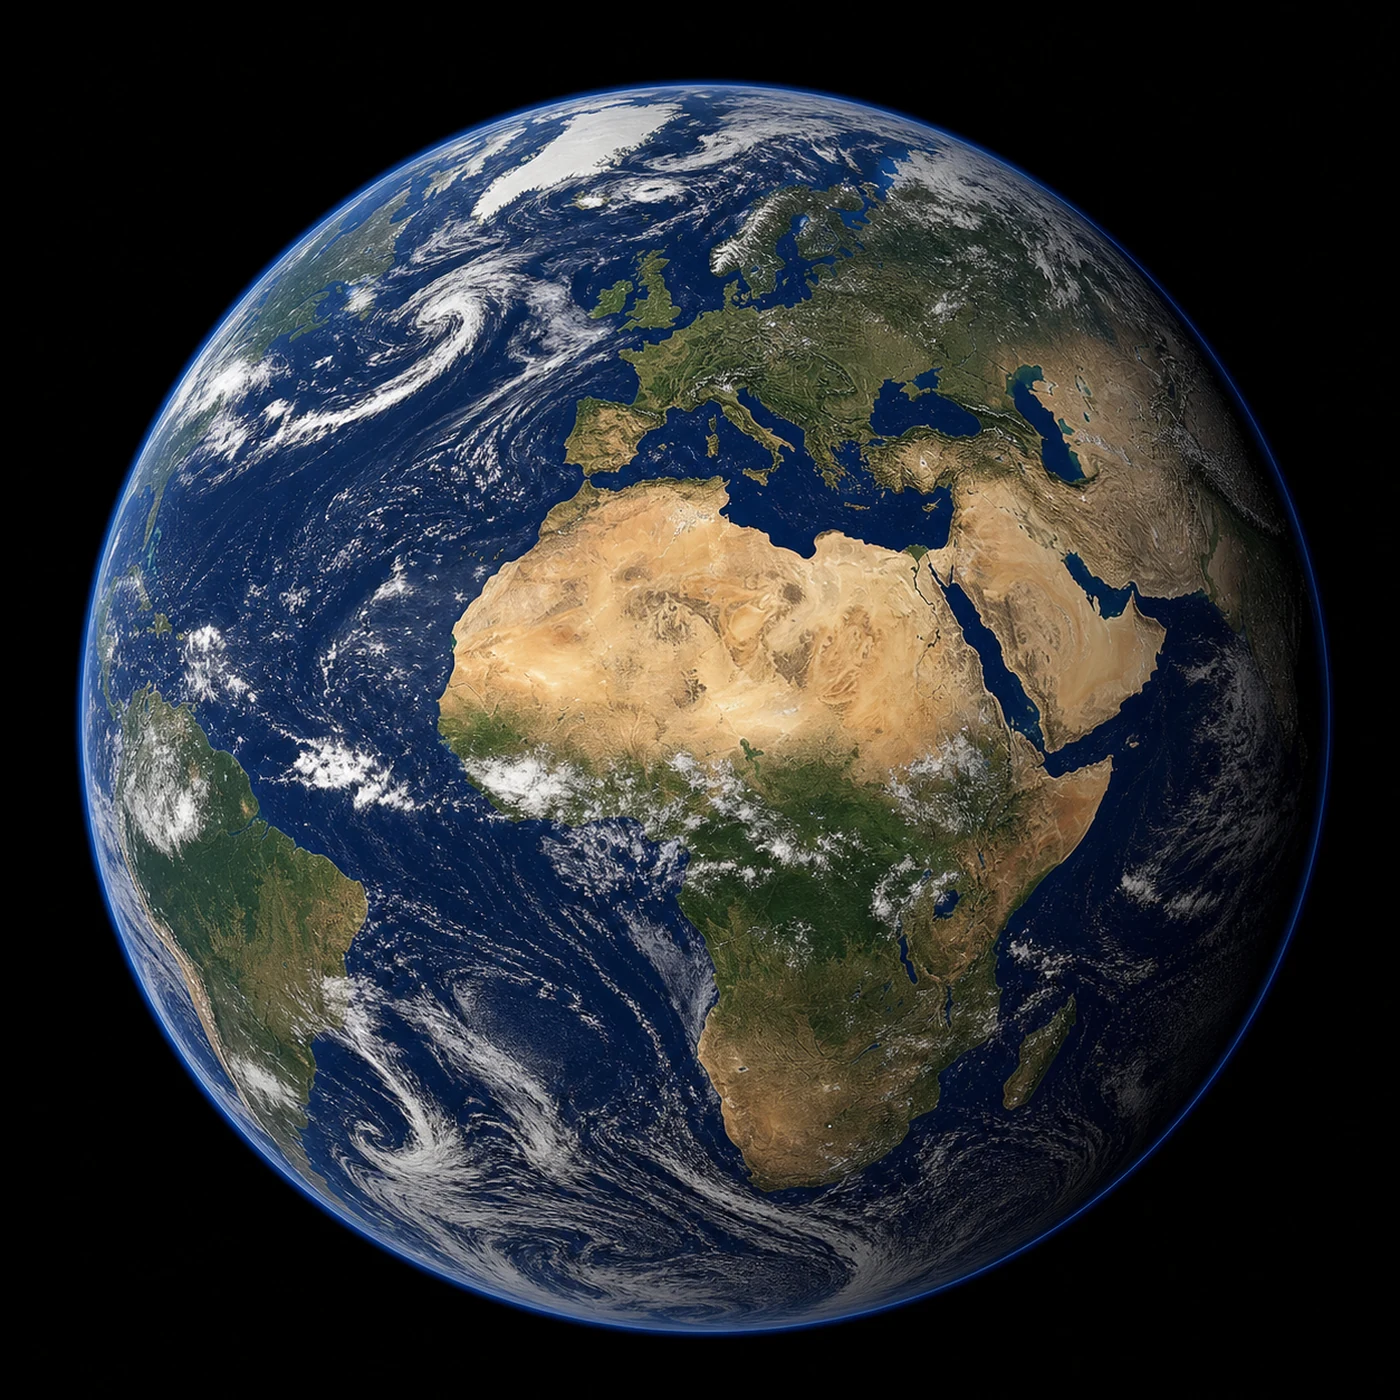
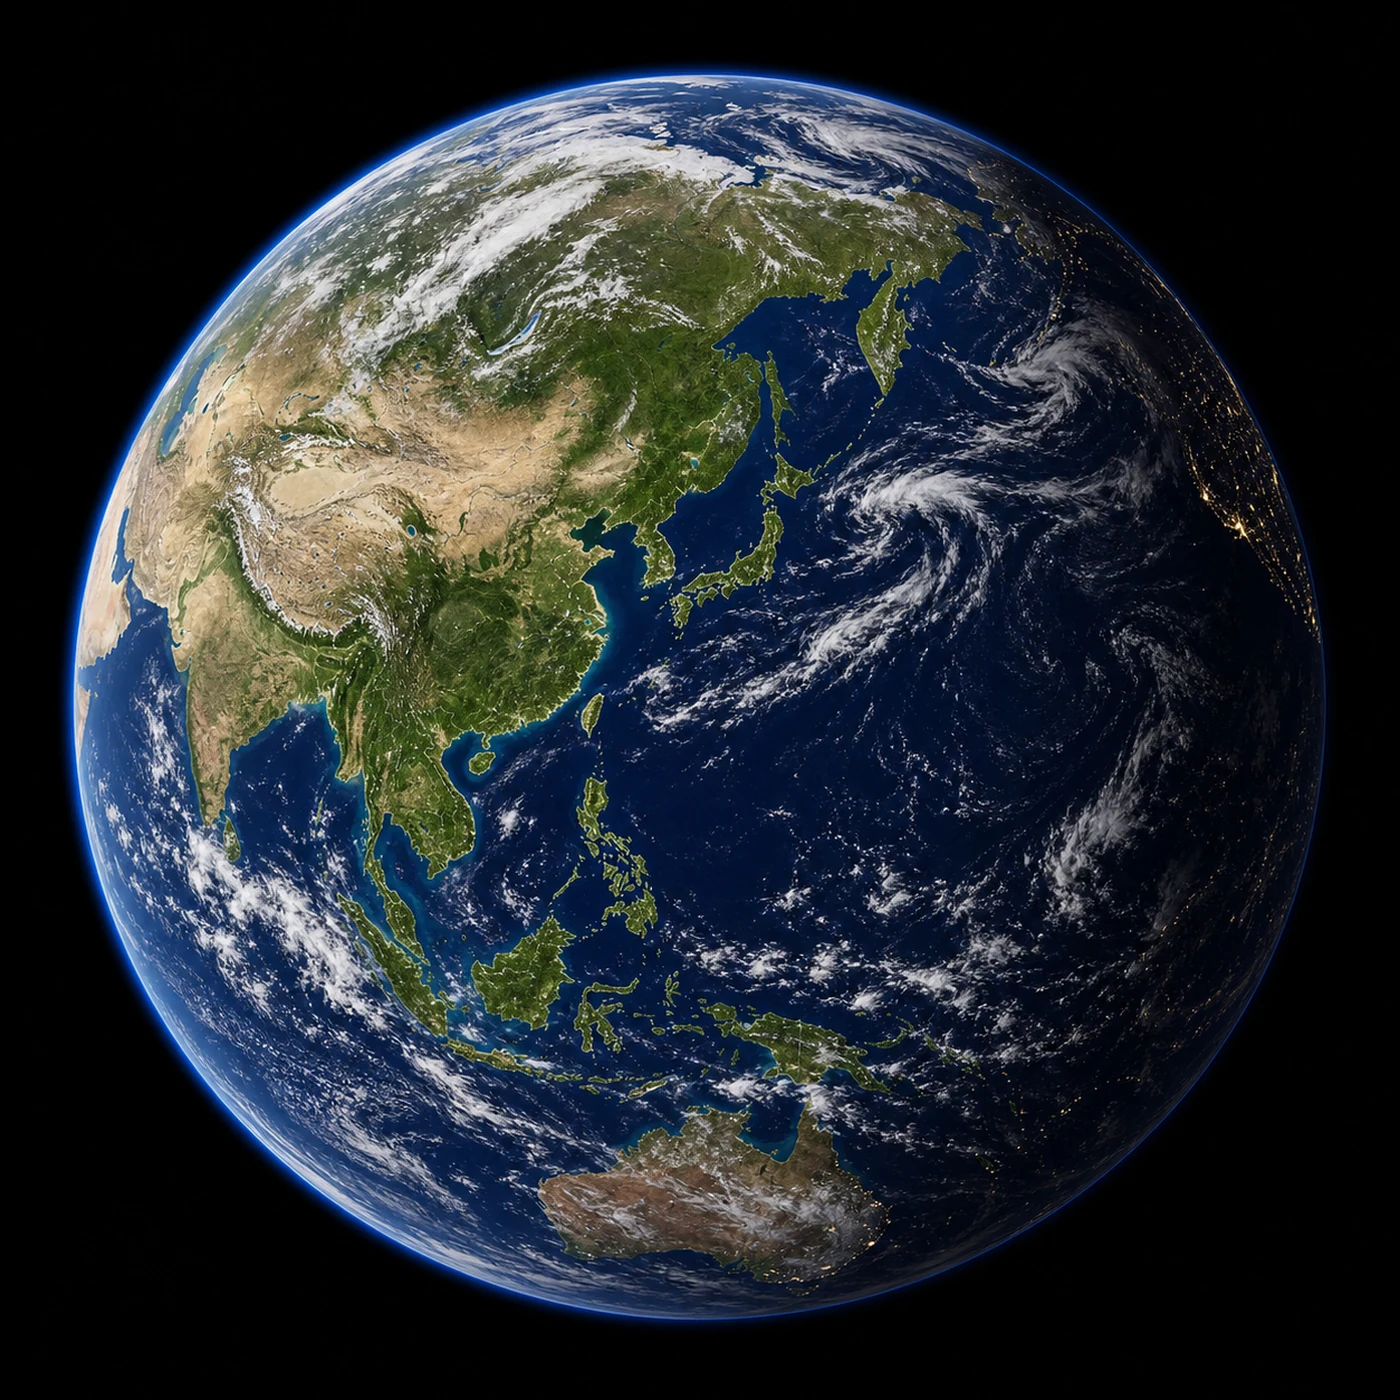
fix: render rotating login earth before app

diff --git a/login_visual.py b/login_visual.py
@@ -1,0 +1,239 @@
+"""로그인 성공 직후 본문 위에 먼저 렌더링되는 CSS 전환 오버레이."""
+
+
+def render_login_transition(st, earth_markup):
+    """Render the one-shot transition before the authenticated app body streams in."""
+    st.markdown(
+        """
+        <style>
+        .jarvis-login-transition-early {
+            position: fixed !important;
+            inset: 0;
+            z-index: 2147483647 !important;
+            display: block;
+            overflow: hidden;
+            pointer-events: none;
+            isolation: isolate;
+            opacity: 1;
+            visibility: visible;
+            background: radial-gradient(circle at center, #071b3a 0, #020713 46%, #000207 100%);
+            animation: jarvis-early-overlay 2s linear forwards;
+            animation-fill-mode: forwards;
+        }
+        .jarvis-early-earth {
+            position: absolute;
+            z-index: 2;
+            left: 50%;
+            top: 50%;
+            width: min(58vw, 620px);
+            transform: translate(-92%, -50%) scale(.82);
+            animation: jarvis-early-earth-zoom 2s cubic-bezier(.58, 0, .88, .72) forwards;
+            animation-fill-mode: forwards;
+            will-change: transform;
+        }
+        .jarvis-early-earth .jarvis-earth-visual {
+            position: relative;
+            width: 100%;
+            aspect-ratio: 1;
+            isolation: isolate;
+        }
+        .jarvis-early-earth .jarvis-earth-disc {
+            position: absolute;
+            inset: 7.5%;
+            z-index: 2;
+            overflow: hidden;
+            border-radius: 50%;
+            background: #01040a;
+            box-shadow: 0 0 0 2px rgba(75, 181, 255, .84), 0 0 24px rgba(35, 139, 255, .34);
+        }
+        .jarvis-early-earth .jarvis-earth-image {
+            position: absolute;
+            inset: -8%;
+            display: block;
+            width: 116%;
+            max-width: none;
+            height: 116%;
+            object-fit: cover;
+            opacity: 1;
+            transform: scale(1.08) rotate(0deg);
+            animation: jarvis-early-earth-turn 120s linear infinite;
+            animation-fill-mode: both;
+            will-change: transform;
+        }
+        .jarvis-early-earth .jarvis-orbit {
+            position: absolute;
+            z-index: 1;
+            left: -2%;
+            top: 35%;
+            width: 104%;
+            height: 29%;
+            border: 2px solid rgba(58, 155, 255, .72);
+            border-radius: 50%;
+            transform: rotate(-13deg);
+            animation: jarvis-early-ring 2s ease-out forwards;
+            animation-fill-mode: forwards;
+        }
+        .jarvis-early-earth .jarvis-orbit-secondary {
+            top: 37%;
+            height: 25%;
+            border-width: 1px;
+            transform: rotate(58deg);
+            animation-name: jarvis-early-ring-soft;
+        }
+        .jarvis-early-panel {
+            position: absolute;
+            z-index: 4;
+            right: clamp(2rem, 8vw, 9rem);
+            top: 50%;
+            width: min(34vw, 460px);
+            padding: 2rem;
+            transform: translateY(-50%);
+            border: 1px solid rgba(85, 151, 236, .32);
+            border-radius: 22px;
+            color: #dcecff;
+            background: linear-gradient(145deg, rgba(15, 31, 56, .82), rgba(3, 10, 24, .92));
+            box-shadow: 0 24px 70px rgba(0, 0, 0, .45), inset 0 1px rgba(179, 220, 255, .1);
+            animation: jarvis-early-panel-fade 2s ease-out forwards;
+            animation-fill-mode: forwards;
+        }
+        .jarvis-early-panel-kicker {
+            color: #64b7ff;
+            font: 700 .7rem/1.4 ui-monospace, SFMono-Regular, Consolas, monospace;
+            letter-spacing: .2em;
+        }
+        .jarvis-early-panel-title { margin-top: .8rem; font-size: 1.8rem; font-weight: 800; }
+        .jarvis-early-panel-line {
+            height: 46px;
+            margin-top: 1.4rem;
+            border: 1px solid rgba(92, 157, 234, .28);
+            border-radius: 11px;
+            background: rgba(2, 9, 22, .66);
+        }
+        .jarvis-early-status {
+            position: absolute;
+            z-index: 6;
+            top: 50%;
+            left: 50%;
+            width: min(92vw, 680px);
+            transform: translate(-50%, -50%);
+            color: #eaf6ff;
+            text-align: center;
+            text-shadow: 0 0 12px #00152f, 0 0 24px rgba(74, 174, 255, .95);
+            opacity: 0;
+            animation: jarvis-early-status-show 2s linear forwards;
+            animation-fill-mode: forwards;
+        }
+        .jarvis-early-access {
+            font: 800 clamp(1.15rem, 3vw, 1.85rem)/1.2 ui-monospace, SFMono-Regular, Consolas, monospace;
+            letter-spacing: .2em;
+        }
+        .jarvis-early-online {
+            margin-top: .38rem;
+            color: #69bfff;
+            font: 700 clamp(.78rem, 2vw, 1rem)/1.35 ui-monospace, SFMono-Regular, Consolas, monospace;
+            letter-spacing: .24em;
+        }
+        .jarvis-early-complete {
+            margin-top: .28rem;
+            color: #b9cce0;
+            font-size: clamp(.72rem, 1.8vw, .9rem);
+            letter-spacing: .12em;
+        }
+        .jarvis-early-light {
+            position: absolute;
+            z-index: 3;
+            left: 50%;
+            top: 50%;
+            width: 9vmin;
+            aspect-ratio: 1;
+            border: 2px solid rgba(82, 176, 255, .92);
+            border-radius: 50%;
+            opacity: 0;
+            transform: translate(-50%, -50%) scale(.1);
+            box-shadow: 0 0 34px rgba(36, 137, 255, .9), inset 0 0 30px rgba(31, 129, 255, .62);
+            animation: jarvis-early-light-expand 2s ease-in forwards;
+            animation-fill-mode: forwards;
+        }
+        @keyframes jarvis-early-earth-turn {
+            from { transform: scale(1.08) rotate(0deg); }
+            to { transform: scale(1.08) rotate(360deg); }
+        }
+        @keyframes jarvis-early-ring {
+            0% { opacity: .45; box-shadow: 0 0 2px rgba(73, 178, 255, .1); }
+            8%, 20% { opacity: 1; border-color: #79ceff; box-shadow: 0 0 15px #2598ff; }
+            50%, 100% { opacity: .34; box-shadow: 0 0 6px rgba(37, 152, 255, .25); }
+        }
+        @keyframes jarvis-early-ring-soft {
+            0% { opacity: .2; }
+            8%, 20% { opacity: .9; border-color: #8ad7ff; box-shadow: 0 0 12px #278fff; }
+            50%, 100% { opacity: .18; }
+        }
+        @keyframes jarvis-early-panel-fade {
+            0% { opacity: 1; transform: translateY(-50%) scale(1); }
+            20%, 100% { opacity: 0; transform: translateY(-50%) scale(.98); }
+        }
+        @keyframes jarvis-early-status-show {
+            0%, 19.99% { opacity: 0; transform: translate(-50%, calc(-50% + 6px)); }
+            20%, 50% { opacity: 1; transform: translate(-50%, -50%); }
+            50.01%, 100% { opacity: 0; transform: translate(-50%, calc(-50% - 5px)); }
+        }
+        @keyframes jarvis-early-earth-zoom {
+            0% { transform: translate(-92%, -50%) scale(.82); }
+            20% { transform: translate(-50%, -50%) scale(.78); }
+            50% { transform: translate(-50%, -50%) scale(.84); }
+            100% { transform: translate(-50%, -50%) scale(5.8); }
+        }
+        @keyframes jarvis-early-light-expand {
+            0%, 49.9% { opacity: 0; transform: translate(-50%, -50%) scale(.1); }
+            56% { opacity: .88; }
+            100% { opacity: 0; transform: translate(-50%, -50%) scale(24); }
+        }
+        @keyframes jarvis-early-overlay {
+            0%, 84% { opacity: 1; visibility: visible; }
+            99.9% { opacity: 0; visibility: visible; }
+            100% { opacity: 0; visibility: hidden; }
+        }
+        @keyframes jarvis-early-reduced {
+            0% { opacity: 1; visibility: visible; }
+            100% { opacity: 0; visibility: hidden; }
+        }
+        @media (max-width: 768px) {
+            .jarvis-early-earth { width: min(92vw, 500px); transform: translate(-50%, -66%) scale(.72); }
+            .jarvis-early-panel { right: 50%; top: auto; bottom: 7%; width: min(84vw, 520px); padding: 1.2rem; transform: translateX(50%); }
+            .jarvis-early-panel-line { height: 38px; margin-top: .8rem; }
+            @keyframes jarvis-early-panel-fade {
+                0% { opacity: 1; transform: translateX(50%) scale(1); }
+                20%, 100% { opacity: 0; transform: translateX(50%) scale(.98); }
+            }
+            @keyframes jarvis-early-earth-zoom {
+                0% { transform: translate(-50%, -66%) scale(.72); }
+                20% { transform: translate(-50%, -50%) scale(.7); }
+                50% { transform: translate(-50%, -50%) scale(.76); }
+                100% { transform: translate(-50%, -50%) scale(5.8); }
+            }
+        }
+        @media (prefers-reduced-motion: reduce) {
+            .jarvis-login-transition-early { animation: jarvis-early-reduced .2s ease-out forwards !important; }
+            .jarvis-early-earth, .jarvis-early-earth *, .jarvis-early-panel,
+            .jarvis-early-status, .jarvis-early-light { animation: none !important; }
+        }
+        </style>
+        <div class="jarvis-login-transition-early" aria-hidden="true">
+            <div class="jarvis-early-earth">
+        """ + earth_markup + """
+            </div>
+            <div class="jarvis-early-panel">
+                <div class="jarvis-early-panel-kicker">SECURE MARKET INTELLIGENCE</div>
+                <div class="jarvis-early-panel-title">Stock Event Jarvis</div>
+                <div class="jarvis-early-panel-line"></div>
+            </div>
+            <div class="jarvis-early-light"></div>
+            <div class="jarvis-early-status">
+                <div class="jarvis-early-access">ACCESS GRANTED</div>
+                <div class="jarvis-early-online">JARVIS ONLINE</div>
+                <div class="jarvis-early-complete">인증 완료</div>
+            </div>
+        </div>
+        """,
+        unsafe_allow_html=True,
+    )

diff --git a/app.py b/app.py
@@ -16,6 +16,7 @@ import streamlit as st
 
 import database as db
 import disclosure_data
+import login_visual
 import news_data
 import performance
 import bookmaker_data
@@ -380,14 +381,14 @@ if not st.session_state.get("authenticated"):
         }
         .jarvis-earth-image {
             position: absolute;
-            inset: -5%;
+            inset: -8%;
             display: block;
-            width: 110%;
+            width: 116%;
             max-width: none;
-            height: 110%;
+            height: 116%;
             object-fit: cover;
             opacity: 1;
-            animation: jarvis-earth-turn 28s ease-in-out infinite alternate;
+            animation: jarvis-earth-turn 120s linear infinite;
             animation-fill-mode: both;
             will-change: transform;
         }
@@ -486,8 +487,8 @@ if not st.session_state.get("authenticated"):
         }
         [data-testid="stAlert"] { border-radius: 12px !important; background: rgba(65, 17, 24, .58) !important; }
         @keyframes jarvis-earth-turn {
-            from { transform: translate3d(-1.2%, 0, 0) scale(1.035) rotate(-.6deg); }
-            to { transform: translate3d(1.2%, 0, 0) scale(1.035) rotate(.6deg); }
+            from { transform: scale(1.08) rotate(0deg); }
+            to { transform: scale(1.08) rotate(360deg); }
         }
         @keyframes jarvis-star-drift { to { transform: translate3d(90px, 55px, 0); } }
         @keyframes jarvis-orbit-pulse { 0%, 100% { opacity: .28; } 50% { opacity: .86; } }
@@ -554,6 +555,12 @@ if not st.session_state.get("authenticated"):
     st.stop()
 
 _login_transition_pending = bool(st.session_state.get("login_transition_pending"))
+_login_transition_rendered_early = False
+if _login_transition_pending:
+    # 본문보다 먼저 고정 오버레이를 보내 자비스 화면이 순간 노출되는 플래시를 막는다.
+    st.session_state.pop("login_transition_pending", None)
+    login_visual.render_login_transition(st, _jarvis_earth_markup)
+    _login_transition_rendered_early = True
 
 db.init_db()
 create_daily_db_backup_once()
@@ -9374,7 +9381,7 @@ if _aux_view == "사용법":
 
 # 성공 오버레이는 본문이 모두 렌더링된 뒤 pending 값을 한 번만 꺼내 표시한다.
 # CSS만으로 2초 뒤 숨기므로 앱 실행을 막는 sleep/JavaScript 타이머가 없다.
-if _login_transition_pending:
+if _login_transition_pending and not _login_transition_rendered_early:
     st.session_state.pop("login_transition_pending", None)
     st.markdown(
         """

diff --git a/test_login_transition.py b/test_login_transition.py
@@ -9,6 +9,8 @@ from streamlit.testing.v1 import AppTest
 
 ROOT = Path(__file__).parent
 SOURCE = (ROOT / "app.py").read_text(encoding="utf-8")
+VISUAL_SOURCE = (ROOT / "login_visual.py").read_text(encoding="utf-8")
+TRANSITION_SOURCE = SOURCE + VISUAL_SOURCE
 EARTH_PATH = ROOT / "assets" / "jarvis_earth.webp"
 TEST_PASSWORD = "jarvis-login-transition-test"
 
@@ -57,7 +59,15 @@ class LoginVisualContractTests(unittest.TestCase):
             "@media (prefers-reduced-motion: reduce)",
             "animation-duration: .2s",
         ):
-            self.assertIn(marker, SOURCE)
+            self.assertIn(marker, TRANSITION_SOURCE)
+        self.assertLess(
+            SOURCE.index("login_visual.render_login_transition"),
+            SOURCE.index("db.init_db()"),
+        )
+        self.assertIn("animation: jarvis-earth-turn 120s linear infinite", SOURCE)
+        self.assertIn("animation: jarvis-early-earth-turn 120s linear infinite", VISUAL_SOURCE)
+        self.assertIn("rotate(0deg)", TRANSITION_SOURCE)
+        self.assertIn("rotate(360deg)", TRANSITION_SOURCE)
         self.assertNotIn("time.sleep(", SOURCE)
         self.assertNotIn("setTimeout(", SOURCE)
 
